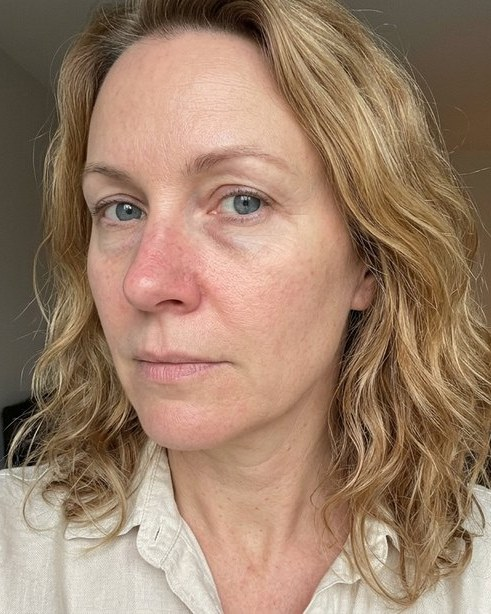
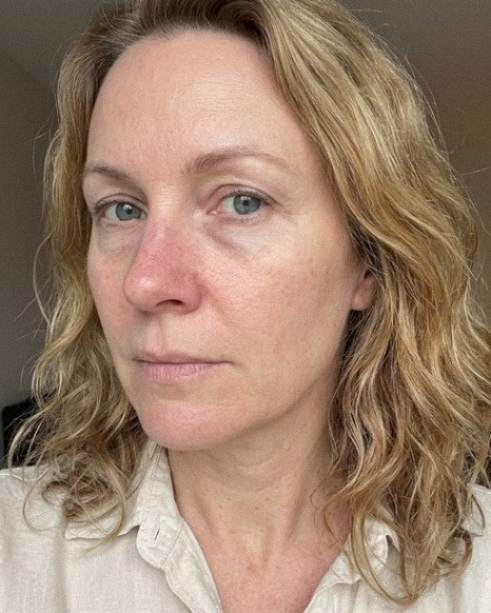
forms: exempelbilden bytt mot Williams filtrerade version
Den forra var beskuren ur ett fore-och-efter-par och last som AI-genererad.
Den har ar samma bild kord genom ett filter, alltsa en telefonselfie som ser
ut som en telefonselfie - vilket ar hela poangen nar den ska visa kunden vad
VI forvantar oss av hennes egen.

diff --git a/scripts/seed-progressbild-form.ts b/scripts/seed-progressbild-form.ts
@@ -156,7 +156,7 @@ const progressbild: FormConfig = {
       key: "foto_lead_1",
       showWhen: { field: "steg", in: ["1"] },
       html: `<p class="chf-lead chf-hide-on-photo">Vi börjar med en bild på <b>hela ansiktet</b>. Se till att den inte är <b>suddig</b> och att <b>ljuset är bra</b>.</p>
-<div class="chf-bigshot chf-hide-on-photo"><img src="{{hub}}/images/progressbild/exempel-bra.jpg" alt="Exempel på hur bilden ska se ut" width="491" height="614" loading="eager"></div>`,
+<div class="chf-bigshot chf-hide-on-photo"><img src="{{hub}}/images/progressbild/exempel-bra.jpg" alt="Exempel på hur bilden ska se ut" width="491" height="613" loading="eager"></div>`,
     },
     // Dag 30 och 60: ledtexten och bilden ar SKILDA block med olika villkor.
     // Villkoren ar ett falt vardera (in / notEmpty), sa de gar inte att slaa
